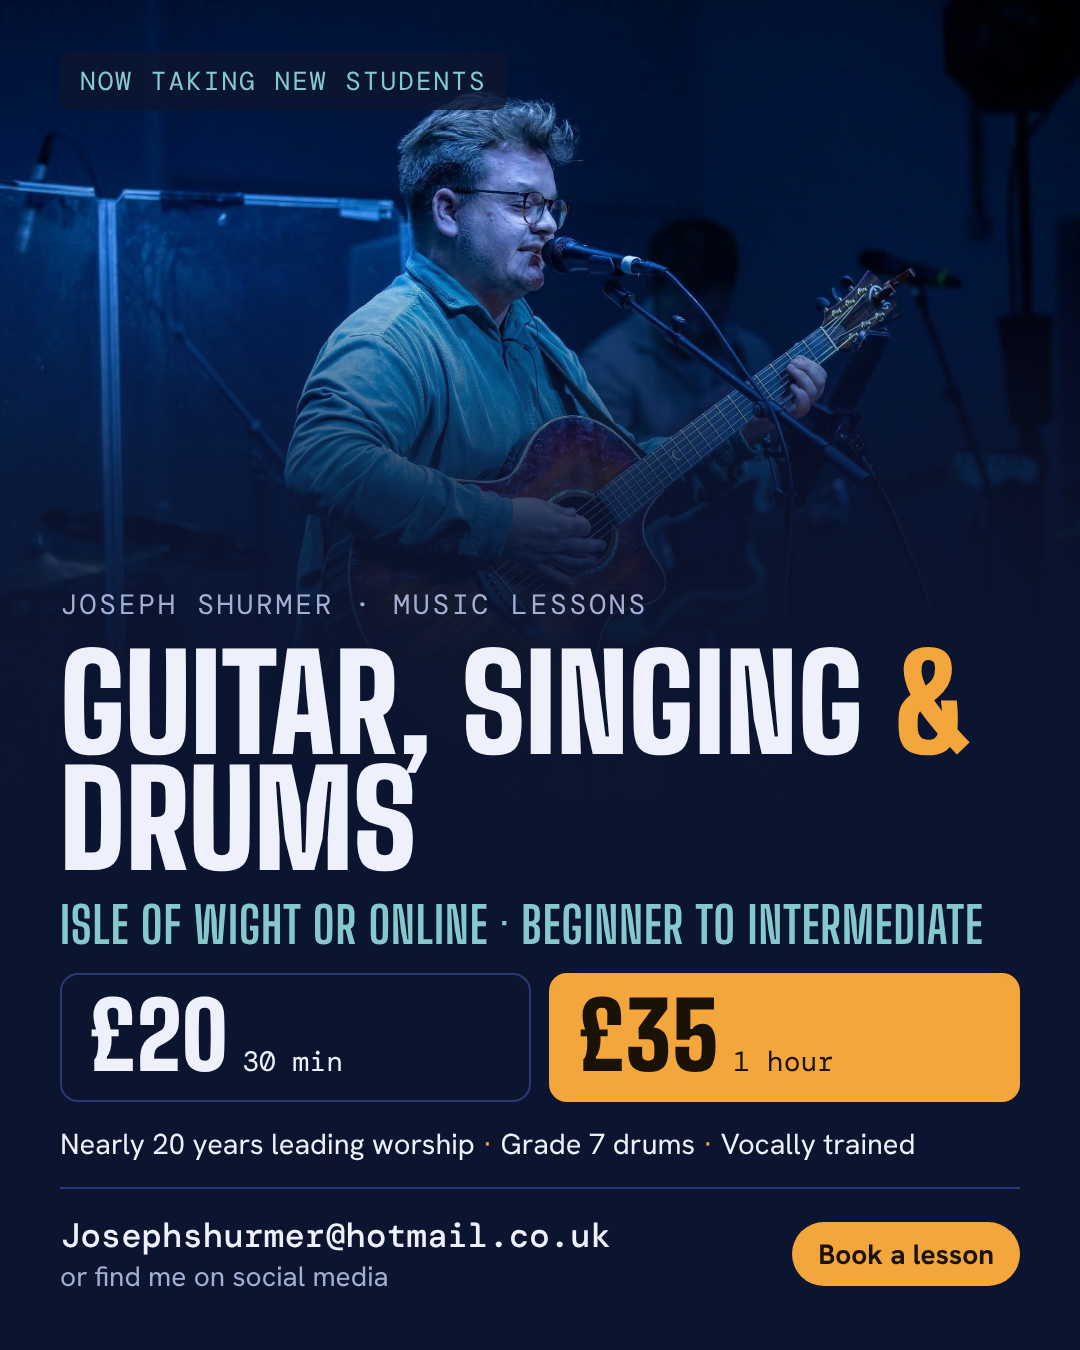
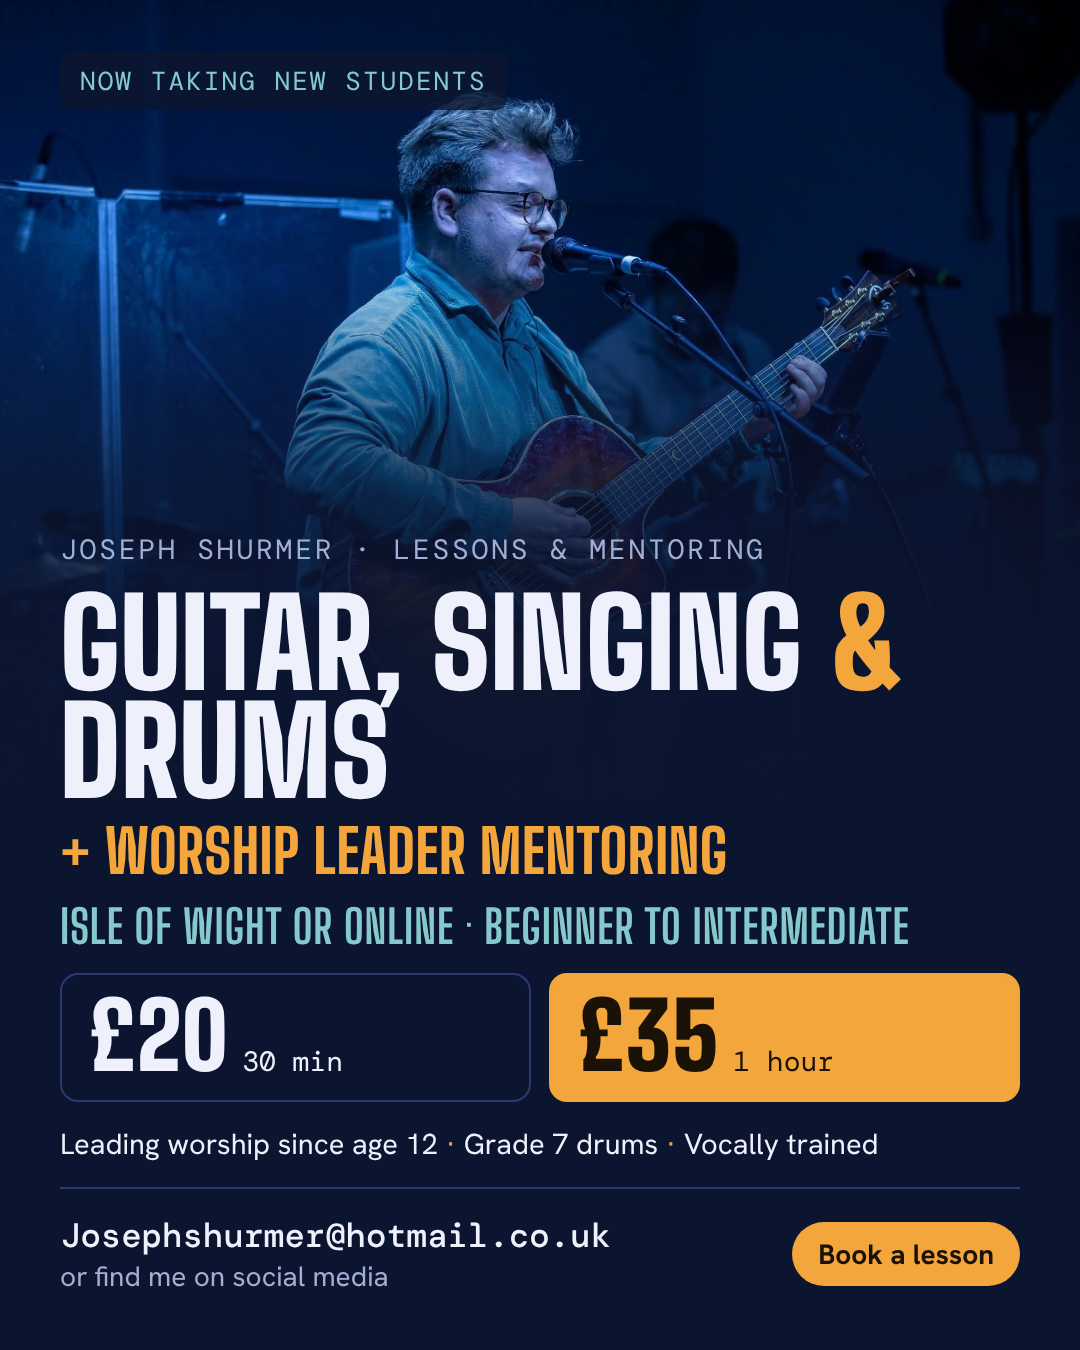
Add worship leader training and mentoring to the lessons advert
New fourth offer card with an example setlist (keys and tempos), hero,
pricing and footer copy updated; both social graphics and the post text
now mention worship leader mentoring.

Claude-Session: https://claude.ai/code/session_01S2CTX3hNLtMansK7k5iX9Y

Changed region(s): [[0.0611, 0.4044, 0.9167, 0.7156], [0.0611, 0.84, 0.8556, 0.8711]]

diff --git a/music-lessons/index.html b/music-lessons/index.html
@@ -1,11 +1,11 @@
 <title>Joseph Shurmer Music Lessons</title>
 <meta name="claude:viewport-fit-sides" content="cover">
-<meta name="description" content="Acoustic guitar, singing and drum lessons on the Isle of Wight and online. Beginner to intermediate. £20 for 30 minutes, £35 for an hour.">
+<meta name="description" content="Acoustic guitar, singing and drum lessons, plus worship leader training and mentoring, on the Isle of Wight and online. £20 for 30 minutes, £35 for an hour.">
 <link rel="preconnect" href="https://fonts.googleapis.com">
 <link rel="preconnect" href="https://fonts.gstatic.com" crossorigin>
 <link rel="stylesheet" href="https://fonts.googleapis.com/css2?family=Big+Shoulders+Display:wght@700;800;900&family=Hanken+Grotesk:wght@400;500;600;700&family=DM+Mono:wght@400;500&display=swap">
 <style>
-  /* Layout: a gig-poster hero beside the stage photo, then three lesson cards that each carry a piece of real notation, prices, story, contact. One committed stage-light look. */
+  /* Layout: a gig-poster hero beside the stage photo, then four offer cards that each carry a piece of real notation, prices, story, contact. One committed stage-light look. */
   :root {
     --stage: #0c1530;        /* deep stage blue, from the photos */
     --stage-raised: #142048;
@@ -97,6 +97,15 @@
     letter-spacing: 0.005em;
   }
   .hero h1 .amp { color: var(--amber); }
+  .hero h1 .plus {
+    display: block;
+    margin-top: 0.2em;
+    font-size: 0.5em;
+    line-height: 1;
+    font-weight: 800;
+    color: var(--amber);
+    letter-spacing: 0.01em;
+  }
   .hero h1 .where {
     display: block;
     margin-top: 0.18em;
@@ -192,7 +201,7 @@
   /* Lesson cards */
   .lessons {
     display: grid;
-    grid-template-columns: repeat(3, minmax(0, 1fr));
+    grid-template-columns: repeat(2, minmax(0, 1fr));
     gap: 20px;
   }
   .lesson {
@@ -322,6 +331,22 @@
     animation: play 2.4s steps(8, end) infinite;
   }
   @keyframes play { from { transform: translateX(0); } to { transform: translateX(800%); } }
+
+  /* Setlist */
+  .setlist { list-style: none; margin: 0; padding: 0; display: grid; gap: 4px; font-family: var(--font-mono); font-size: 0.78rem; }
+  .setlist li {
+    display: grid;
+    grid-template-columns: 1.2em minmax(0, 1fr) 3.4em 3.2em;
+    gap: 8px;
+    align-items: center;
+    padding: 5px 9px;
+    border-radius: 4px;
+    background: var(--stage-raised);
+  }
+  .setlist .n { color: var(--muted); }
+  .setlist .key { color: var(--amber); font-weight: 500; }
+  .setlist .bpm { color: var(--muted); text-align: right; font-variant-numeric: tabular-nums; }
+  .setlist li.pad { background: transparent; border: 1px dashed var(--stage-line); }
 
   @media (prefers-reduced-motion: reduce) {
     .breath-bar .cursor, .playhead { animation: none; }
@@ -474,7 +499,6 @@
   }
 
   @media (max-width: 900px) {
-    .lessons { grid-template-columns: minmax(0, 1fr); }
     .about { grid-template-columns: minmax(0, 1fr); }
   }
   @media (max-width: 760px) {
@@ -482,6 +506,7 @@
     .hero-photo { order: -1; }
     .hero-photo img { aspect-ratio: 4 / 3; object-position: 50% 30%; }
     .steps { grid-template-columns: minmax(0, 1fr); }
+    .lessons { grid-template-columns: minmax(0, 1fr); }
     section { padding-block: 48px; }
   }
   @media (max-width: 480px) {
@@ -493,7 +518,7 @@
 <header class="masthead">
   <div class="wrap">
     <span class="wordmark">Joseph Shurmer</span>
-    <span class="eyebrow">Music lessons · Isle of Wight &amp; online</span>
+    <span class="eyebrow">Lessons &amp; mentoring · Isle of Wight &amp; online</span>
   </div>
 </header>
 
@@ -502,12 +527,13 @@
     <div class="wrap">
       <div class="hero-copy">
         <span class="eyebrow">Now taking new students</span>
-        <h1>Guitar, singing <span class="amp">&amp;</span> drums<span class="where">Lessons on the Isle of Wight or online</span></h1>
-        <p class="lede">Friendly one-to-one lessons for <strong>beginners and intermediate players</strong>, from someone who has spent <strong>nearly 20 years</strong> playing, singing and leading bands.</p>
+        <h1>Guitar, singing <span class="amp">&amp;</span> drums<span class="plus">+ Worship leader mentoring</span><span class="where">On the Isle of Wight or online</span></h1>
+        <p class="lede">Friendly one-to-one lessons for <strong>beginners and intermediate players</strong>, plus <strong>training and mentoring for worship leaders</strong>, from someone who has spent <strong>nearly 20 years</strong> playing, singing and leading worship teams.</p>
         <ul class="hero-facts">
           <li>Acoustic guitar</li>
           <li>Vocals</li>
           <li>Drums</li>
+          <li>Worship leading</li>
           <li>In person or online</li>
         </ul>
         <div class="cta-row">
@@ -525,9 +551,9 @@
   <section id="lessons">
     <div class="wrap">
       <div class="section-head">
-        <span class="eyebrow">What I teach</span>
-        <h2>Three ways to start making music</h2>
-        <p>Every lesson is built around you: the songs you want to play, the style you like and the pace that suits you.</p>
+        <span class="eyebrow">What I offer</span>
+        <h2>Four ways to grow as a musician</h2>
+        <p>Every session is built around you: the songs you want to play, the style you like, the role you're growing into and the pace that suits you.</p>
       </div>
 
       <div class="lessons">
@@ -635,6 +661,30 @@
           </ul>
           <p class="note">Drum lessons happen at your place, so you'll need your own kit and a space to play.</p>
         </article>
+
+        <article class="lesson">
+          <div>
+            <h3>Worship leading</h3>
+            <div class="lesson-meta"><span class="chip">Training &amp; mentoring</span><span class="chip">Online or in person</span></div>
+          </div>
+          <div class="notation" aria-label="Example setlist with keys and tempos: upbeat opener in G at 132 bpm, build in A at 124 bpm, pad transition from A to D, reflective song in D at 68 bpm, response song in D at 72 bpm">
+            <ol class="setlist" aria-hidden="true">
+              <li><span class="n">1</span><span>Opener, upbeat</span><span class="key">G</span><span class="bpm">132</span></li>
+              <li><span class="n">2</span><span>Build</span><span class="key">A</span><span class="bpm">124</span></li>
+              <li class="pad"><span class="n">↓</span><span>Pad transition</span><span class="key">A→D</span><span class="bpm">free</span></li>
+              <li><span class="n">3</span><span>Reflective</span><span class="key">D</span><span class="bpm">68</span></li>
+              <li><span class="n">4</span><span>Response</span><span class="key">D</span><span class="bpm">72</span></li>
+            </ol>
+            <span class="notation-label">Session one: building a setlist that flows</span>
+          </div>
+          <ul>
+            <li>Planning setlists: song choice, keys that suit the congregation, and flow</li>
+            <li>Leading from the front: transitions, speaking between songs and reading the room</li>
+            <li>Running rehearsals and leading a band or worship team</li>
+            <li>Preparing well week to week, spiritually as well as musically</li>
+          </ul>
+          <p class="note">For new and growing worship leaders, from someone who has led worship since age 12.</p>
+        </article>
       </div>
     </div>
   </section>
@@ -644,7 +694,7 @@
       <div class="section-head">
         <span class="eyebrow">Prices</span>
         <h2>Simple pricing</h2>
-        <p>One-to-one lessons, the same price for guitar, singing and drums.</p>
+        <p>One-to-one sessions, the same price for guitar, singing, drums and worship leader mentoring.</p>
       </div>
       <div class="prices">
         <div class="price">
@@ -661,6 +711,7 @@
       <ul class="price-notes">
         <li>Guitar and singing: online or in person on the Isle of Wight.</li>
         <li>Drums: in person at your place, on your own kit.</li>
+        <li>Worship leader training and mentoring: online or in person.</li>
         <li>Not sure which length suits you? Email me and we'll work it out.</li>
       </ul>
     </div>
@@ -697,7 +748,7 @@
         <h2>Getting started is easy</h2>
       </div>
       <ol class="steps">
-        <li><h3>Send me an email</h3><p>Tell me which instrument, roughly where you're at, and whether you'd like lessons online or in person.</p></li>
+        <li><h3>Send me an email</h3><p>Tell me what you'd like to work on, roughly where you're at, and whether you'd like sessions online or in person.</p></li>
         <li><h3>We pick a time</h3><p>We'll find a regular slot that fits around your week.</p></li>
         <li><h3>Start playing</h3><p>From the first lesson you'll be playing or singing something real.</p></li>
       </ol>
@@ -720,7 +771,7 @@
 
 <footer>
   <div class="wrap">
-    <span>Joseph Shurmer · Guitar, singing &amp; drum lessons</span>
+    <span>Joseph Shurmer · Guitar, singing &amp; drum lessons · Worship leader mentoring</span>
     <span>Isle of Wight &amp; online</span>
   </div>
 </footer>

diff --git a/music-lessons/social/graphics.html b/music-lessons/social/graphics.html
@@ -41,11 +41,13 @@
   .name { font-family: var(--font-mono); font-size: 28px; letter-spacing: 0.1em; text-transform: uppercase; color: var(--muted); }
   h1 {
     font-family: var(--font-display); font-weight: 900; text-transform: uppercase;
-    font-size: 132px; line-height: 0.88; letter-spacing: 0.005em;
+    font-size: 122px; line-height: 0.88; letter-spacing: 0.005em;
   }
   .story h1 { font-size: 150px; }
   h1 .amp { color: var(--amber); }
-  .where { font-family: var(--font-display); font-weight: 700; font-size: 50px; line-height: 1.05; color: var(--teal); text-transform: uppercase; letter-spacing: 0.02em; }
+  .plus { font-family: var(--font-display); font-weight: 800; font-size: 60px; line-height: 1; color: var(--amber); text-transform: uppercase; letter-spacing: 0.01em; margin-top: -6px; }
+  .story .plus { font-size: 68px; }
+  .where { font-family: var(--font-display); font-weight: 700; font-size: 46px; line-height: 1.05; color: var(--teal); text-transform: uppercase; letter-spacing: 0.02em; }
   .story .where { font-size: 56px; }
 
   .row { display: flex; gap: 18px; flex-wrap: wrap; }
@@ -77,14 +79,15 @@
   <div class="photo"></div>
   <div class="tag">Now taking new students</div>
   <div class="copy">
-    <div class="name">Joseph Shurmer · Music lessons</div>
+    <div class="name">Joseph Shurmer · Lessons &amp; mentoring</div>
     <h1>Guitar, singing <span class="amp">&amp;</span> drums</h1>
+    <div class="plus">+ Worship leader mentoring</div>
     <div class="where">Isle of Wight or online · Beginner to intermediate</div>
     <div class="prices">
       <div class="price"><b>£20</b><span>30 min</span></div>
       <div class="price hot"><b>£35</b><span>1 hour</span></div>
     </div>
-    <div class="creds">Nearly 20 years leading worship<i>·</i>Grade 7 drums<i>·</i>Vocally trained</div>
+    <div class="creds">Leading worship since age 12<i>·</i>Grade 7 drums<i>·</i>Vocally trained</div>
     <div class="contact">
       <div>
         <div class="email">Josephshurmer@hotmail.co.uk</div>
@@ -99,12 +102,10 @@
   <div class="photo"></div>
   <div class="tag">Now taking new students</div>
   <div class="copy">
-    <div class="name">Joseph Shurmer · Music lessons</div>
+    <div class="name">Joseph Shurmer · Lessons &amp; mentoring</div>
     <h1>Guitar, singing <span class="amp">&amp;</span> drums</h1>
+    <div class="plus">+ Worship leader mentoring</div>
     <div class="where">Isle of Wight or online<br>Beginner to intermediate</div>
-    <div class="row">
-      <span class="pill">Acoustic guitar</span><span class="pill">Vocals</span><span class="pill">Drums (your kit)</span>
-    </div>
     <div class="prices">
       <div class="price"><b>£20</b><span>30 min</span></div>
       <div class="price hot"><b>£35</b><span>1 hour</span></div>

diff --git a/music-lessons/post-copy.md b/music-lessons/post-copy.md
@@ -7,22 +7,25 @@ Swap `[LINK]` for your lesson page link once you've shared it publicly.
 
 ## Facebook (Isle of Wight community groups, your own page)
 
-🎸 Guitar, singing and drum lessons on the Isle of Wight (or online) 🎤🥁
+🎸 Guitar, singing and drum lessons + worship leader mentoring on the Isle of Wight (or online) 🎤🥁
 
 Hi everyone, I'm Joseph. I'm taking on new students for:
 
 • Acoustic guitar, beginner to intermediate
 • Singing, beginner to intermediate
 • Drums, beginner to intermediate (at your place, on your own kit)
+• Worship leader training and mentoring, for new and growing worship leaders
 
-Guitar and singing lessons can be in person on the Island or online.
+Guitar, singing and worship leader sessions can be in person on the Island or online.
 
 A bit about me: I started leading worship at 12 and have been playing, singing and leading worship teams for nearly 20 years. I'm Grade 7 on drums, vocally trained, and I put a big focus on proper breathing technique in every singing lesson. I taught myself guitar, so I know which bits feel hard at the start and how to get past them. I've been teaching for a good few years too.
+
+If you lead worship (or want to), I can help with planning setlists, choosing keys, transitions, leading a band or team, and preparing well week to week.
 
 💷 £20 for 30 minutes
 💷 £35 for 1 hour
 
-Lessons are built around you and the songs you want to play.
+Every session is built around you and what you want to work on.
 
 📧 Email me: Josephshurmer@hotmail.co.uk
 💬 Or send me a message here.
@@ -36,6 +39,8 @@ Now taking new students 🎸🎤🥁
 
 Acoustic guitar, singing and drum lessons on the Isle of Wight or online. Beginner to intermediate.
 
+Plus worship leader training and mentoring: setlists, keys, transitions and leading a team.
+
 ✔ Nearly 20 years playing, singing and leading worship
 ✔ Grade 7 drums
 ✔ Vocally trained, with a big focus on breathing
@@ -46,13 +51,13 @@ Drum lessons at your place, on your own kit.
 
 DM me or email Josephshurmer@hotmail.co.uk to book. Link in bio.
 
-#isleofwight #iow #isleofwightmusic #guitarlessons #singinglessons #drumlessons #vocalcoach #musiclessons #learnguitar #onlinemusiclessons #newport #ryde #cowes #shanklin #sandown
+#isleofwight #iow #isleofwightmusic #guitarlessons #singinglessons #drumlessons #vocalcoach #musiclessons #learnguitar #onlinemusiclessons #worshipleader #worshipleading #worshipteam #newport #ryde #cowes #shanklin #sandown
 
 ---
 
 ## Short version (Nextdoor, WhatsApp groups, comment replies)
 
-Guitar, singing and drum lessons on the Isle of Wight or online, beginner to intermediate. Nearly 20 years' experience leading worship, Grade 7 drums, vocally trained. £20 / 30 min or £35 / hour. Drums at your place on your own kit. Email Josephshurmer@hotmail.co.uk or message me to book. [LINK]
+Guitar, singing and drum lessons on the Isle of Wight or online, beginner to intermediate, plus worship leader training and mentoring. Nearly 20 years' experience leading worship, Grade 7 drums, vocally trained. £20 / 30 min or £35 / hour. Drums at your place on your own kit. Email Josephshurmer@hotmail.co.uk or message me to book. [LINK]
 
 ---
 
@@ -61,5 +66,5 @@ Guitar, singing and drum lessons on the Isle of Wight or online, beginner to int
 1. Isle of Wight Facebook community groups (town groups and "what's on" groups). Check each group's rules on business posts first; some only allow them on certain days.
 2. Facebook Marketplace under Services, using the feed graphic.
 3. Your Instagram feed plus a story, with the lesson page link in your bio.
-4. Your church noticeboard or newsletter, since people there already know your playing.
+4. Your church noticeboard or newsletter, since people there already know your playing. For the worship leader mentoring, also ask other Island church leaders whether their worship teams would like it.
 5. School and parent groups if you decide to teach under-18s. Parents will often ask about a DBS check, so it helps to have one.
